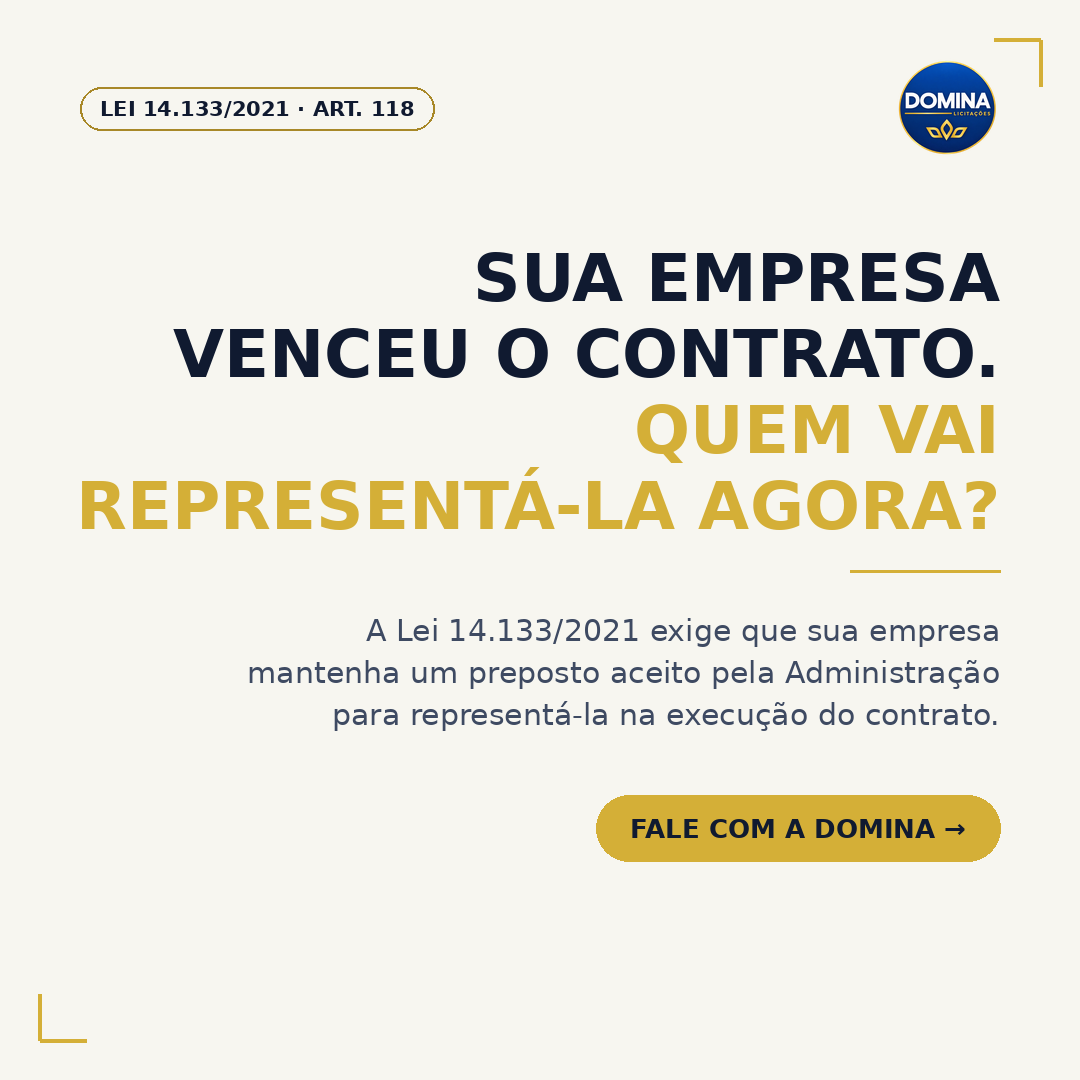
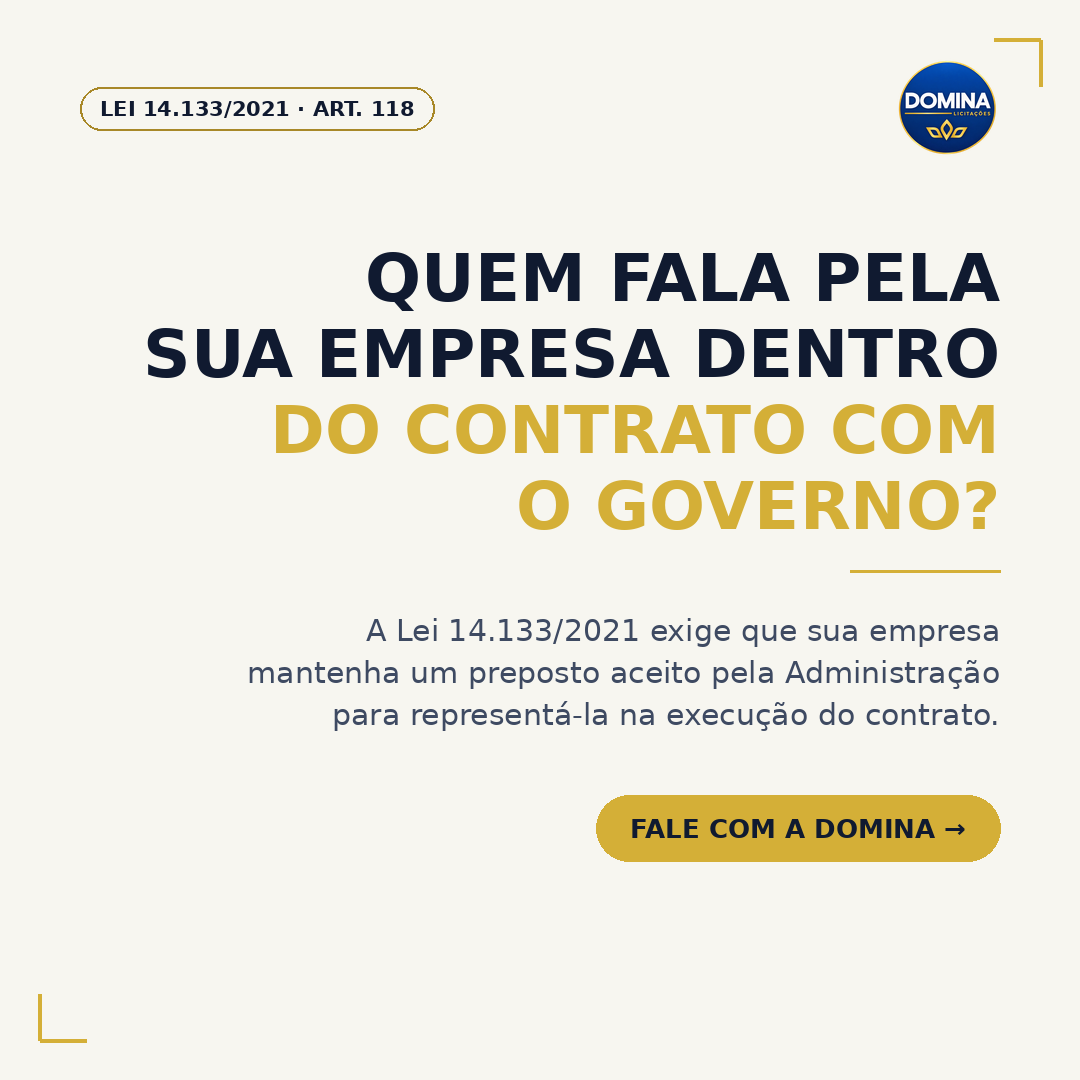
Post 18h 20/10: ajusta titulo e legenda para diferenciar do post 9h
Claude-Session: https://claude.ai/code/session_01HXJDe5x8kjTqRH66QwpUxq

Changed region(s): [[0.0611, 0.2139, 0.9472, 0.4889]]

diff --git a/scripts/gen_post_18h_1020.py b/scripts/gen_post_18h_1020.py
@@ -79,10 +79,10 @@ y = 56 + logo_size + 78
 # ---- title, right-aligned ----
 title_font = F(FONT_BOLD, 66)
 lines = [
-    ("SUA EMPRESA", NAVY),
-    ("VENCEU O CONTRATO.", NAVY),
-    ("QUEM VAI", GOLD),
-    ("REPRESENTÁ-LA AGORA?", GOLD),
+    ("QUEM FALA PELA", NAVY),
+    ("SUA EMPRESA DENTRO", NAVY),
+    ("DO CONTRATO COM", GOLD),
+    ("O GOVERNO?", GOLD),
 ]
 for text, color in lines:
     draw_right(y, text, title_font, color)
